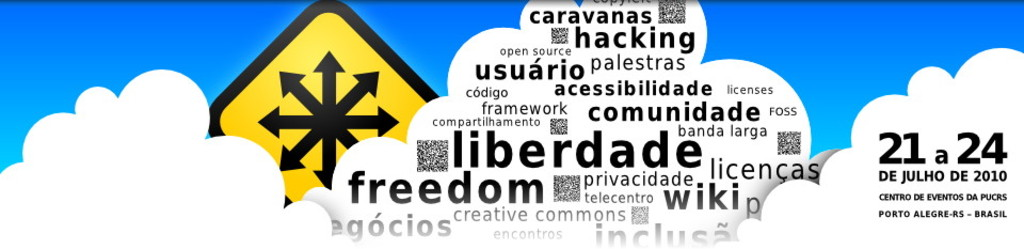
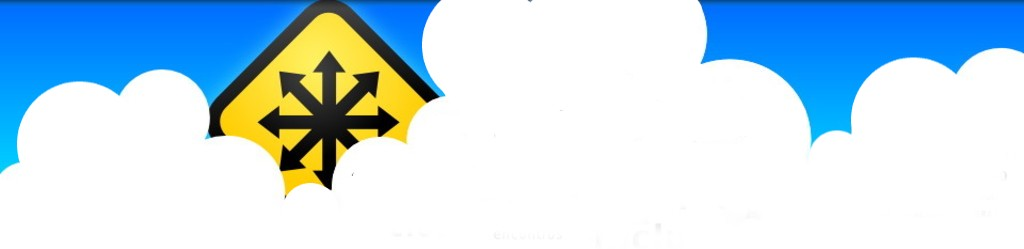
New images, trademark graphics in the brand .

diff --git a/xulrunner/base/chrome/tagvisor/content/visor/org/fisl/layout-projector/gfxless.js b/xulrunner/base/chrome/tagvisor/content/visor/org/fisl/layout-projector/gfxless.js
@@ -10,43 +10,13 @@ var gfx =  {
 
 	style : <><![CDATA[
 
-
-        .shadow .c {
-                -moz-box-shadow: white 0px 0px 20px;
-        }
-
-        .e {
-                background-color:white;
-                padding:1em;
-                width:300px;
-                position:absolute;
-                height:300px;
-        }
-        .c {
-                background-color:white;
-                -moz-border-radius:425px;
-                padding:1em;
-                width:300px;
-                position:absolute;
-                height:300px;
-        }
-
-
 	html { padding:0; margin:0; overflow:hidden; font-family: verdana, arial, sans-serif } 
+
 	body {
 		background: white;
 
 		padding:0; margin:0;
 	}
-
-
-	.clouds { 
-		position:absolute;
-		z-index:200;
-		width:1024px;
-		height:768px; 
-		overflow:hidden;
-	} 
 
 	.container {
 		top:0px;
@@ -141,14 +111,6 @@ var gfx =  {
 		overflow:hidden;
 	} 
 
-	#area_topleft {
-		width:850px;
-        }
-
-	video { 
-		-moz-box-shadow: 15px 15px 15px rgba(0,0,0,.5);
-	} 
-
 ]]></>,
 
 
@@ -201,16 +163,17 @@ var gfx =  {
 <div id='pointer'>
 </div>
 <div class='container'>
-<table cellpadding="0" >
+<table cellpadding="0" border='0' >
 <tr>
-<td id='area_topleft' valign='top' align="left" width="524">
-<!--
-<img src="org/fisl/layout-tv/fisl-banner-logo.png" height="220" />
-<img src="org/fisl/layout-tv/fisl-banner-fisl.png" height="220" />
--->
+<td id='area_topleft' valign='top' align="left" width="333">
 </td>
-<td valign="top" align='left' width="400">
+<td valign="top" align='left' width="393">
+<div id='area_topmid' >
+</div>
+</td>
+<td valign="top" align="right" width="303">
 <div id='area_topright' >
+<img  style='margin-top:90px;margin-right:5px;;' src="org/fisl/brand/fisl-banner-mini-logo.png" border="0" />
 </div>
 </td>
 </tr>

diff --git a/xulrunner/base/chrome/tagvisor/content/visor/org/fisl/weather/weather.js b/xulrunner/base/chrome/tagvisor/content/visor/org/fisl/weather/weather.js
@@ -22,8 +22,8 @@ var clock_Widget =  {
 	start : function () { 
 
 		var mainDiv      = this._coreDoc.createElement('div');
-		mainDiv.setAttribute("width","300");
-		mainDiv.setAttribute("style","margin-left:175px;padding:10px;-moz-border-radius:25px;-moz-box-shadow:black 0 0 15px;; margin-top:0px;width:255px; padding-right:40px; height:180px;color:black; background-color:yellow; border:10px solid white;; overflow:hidden; ");
+		mainDiv.setAttribute("width","350");
+		mainDiv.setAttribute("style","text-align:center;padding:10px;-moz-border-radius:25px; margin-top:0px;margin-left:70px;width:320px;  height:180px;color:black; ; overflow:hidden; ");
 		this._coreDoc.getElementById(this._getId()).appendChild(mainDiv);
 
 		this.elementWeather = this._coreDoc.createElement('div');

diff --git a/xulrunner/base/chrome/tagvisor/content/visor/org/fisl/twitter-fisl/twitter.js b/xulrunner/base/chrome/tagvisor/content/visor/org/fisl/twitter-fisl/twitter.js
@@ -22,7 +22,7 @@ var twitter =  {
 		.postitpanel {                        
 			color:black;                        
 			display:inline-block;
-                        background-color:#ff5;
+                        background-color:#dd2;
                         font-size:14px;
 			overflow:hidden;
                         font-weight:bold;                        

diff --git a/xulrunner/base/chrome/tagvisor/content/visor/org/fisl/clock/clock.js b/xulrunner/base/chrome/tagvisor/content/visor/org/fisl/clock/clock.js
@@ -22,7 +22,7 @@ var clock_Widget =  {
 	start : function () { 
 
 		var mainDiv      = this._coreDoc.createElement('div');
-		mainDiv.setAttribute("width","350");
+		mainDiv.setAttribute("width","280");
 		mainDiv.setAttribute("style","margin-top:150px;margin-left:40px;color:black; ");
 		this._coreDoc.getElementById(this._getId()).appendChild(mainDiv);
 
